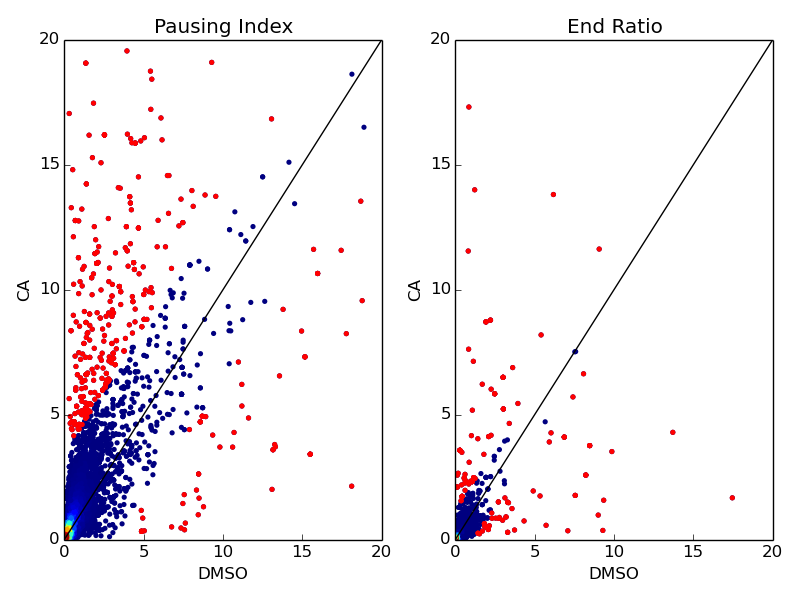
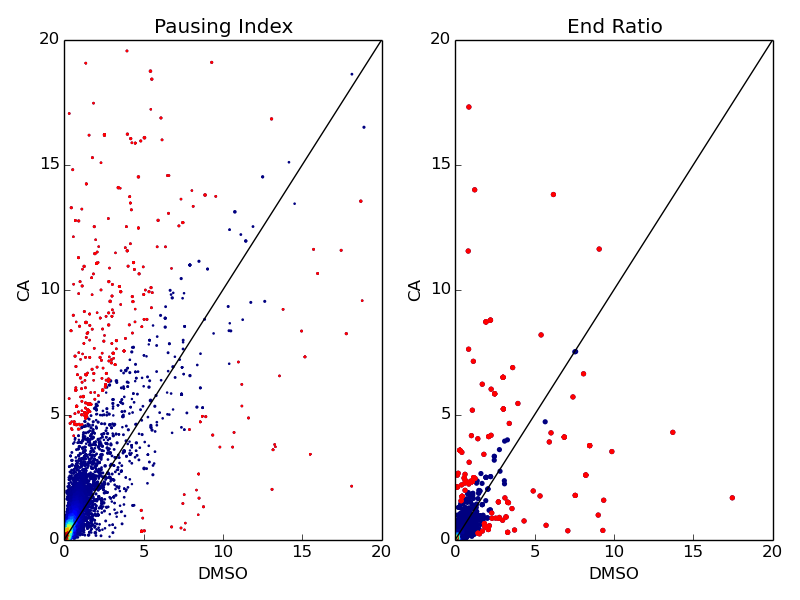
updates

diff --git a/src/master_writer.py b/src/master_writer.py
@@ -311,8 +311,8 @@ def run(DMSOgenes,DMSOTSS,DMSOEND,CAgenes,CATSS,CAEND,filedir,figuredir):
     ax1 = F3.add_subplot(121)
     xy = np.vstack([TRx,TRy])
     z = gaussian_kde(xy)(xy)
-    ax1.scatter(TRx,TRy,c=z,edgecolor="",s=expressionlist)
-    ax1.scatter(TRx2,TRy2,c='red',edgecolor="",s=expressionlist2)
+    ax1.scatter(TRx,TRy,c=z,edgecolor="",s=14)
+    ax1.scatter(TRx2,TRy2,c='red',edgecolor="",s=14)
     ax1.set_title('Pausing Index')
     ax1.set_ylabel('CA')
     ax1.set_xlabel('DMSO')
@@ -386,10 +386,10 @@ def run(DMSOgenes,DMSOTSS,DMSOEND,CAgenes,CATSS,CAEND,filedir,figuredir):
     ax.set_title('Gene Transcription')
     ax.set_xlabel('DMSO')
     ax.set_ylabel('CA')
-    #ax.set_xlim([0, 20000])
-    #ax.set_ylim([0, 20000])
-    #ax.plot([0,50000.0],[0,50000.0],color='k')
-    ax.text(14000,12000, "Pearson = " + str(pearsons)[0:5])
+    ax.set_xlim([0, 20])
+    ax.set_ylim([0, 20])
+    ax.plot([0,50000.0],[0,50000.0],color='k')
+    ax.text(14,12, "Pearson = " + str(pearsons)[0:5])
     plt.savefig(figuredir + '/Pearson.png')
     
     meanX = np.mean(TRx)
@@ -409,8 +409,8 @@ def run(DMSOgenes,DMSOTSS,DMSOEND,CAgenes,CATSS,CAEND,filedir,figuredir):
     ax1 = F6.add_subplot(111)
     xy = np.vstack([TRx,TRy])
     z = gaussian_kde(xy)(xy)
-    ax1.scatter(TRx,TRy,c=z,edgecolor="",s=14)
-    ax1.scatter(TRx2,TRy2,c='red',edgecolor="",s=14)
+    ax1.scatter(TRx,TRy,c=z,edgecolor="",s=expressionlist)
+    ax1.scatter(TRx2,TRy2,c='red',edgecolor="",s=expressionlist2)
     ax1.set_title('Pausing Index')
     ax1.set_ylabel('CA')
     ax1.set_xlabel('DMSO')
@@ -465,13 +465,13 @@ def run(DMSOgenes,DMSOTSS,DMSOEND,CAgenes,CATSS,CAEND,filedir,figuredir):
     ax.scatter(pX2,pY2,c=z,edgecolor="",s=14)
     ax.get_xaxis().tick_bottom()
     ax.get_yaxis().tick_left()
-    #ax.set_xlim([0, 700])
-    #ax.set_ylim([0, 700])
+    ax.set_xlim([0, 7])
+    ax.set_ylim([0, 7])
     ax.set_title('Gene Transcription')
     ax.set_xlabel('DMSO')
     ax.set_ylabel('CA')
-    #ax.plot([0,50000.0],[0,50000.0],color='k')
-    ax.text(450,300, "Pearson = " + str(pearsons)[0:5])
+    ax.plot([0,50000.0],[0,50000.0],color='k')
+    ax.text(5.5,4, "Pearson = " + str(pearsons)[0:5])
     plt.savefig(figuredir + '/Transcription_UPGenes.png')
     
     
